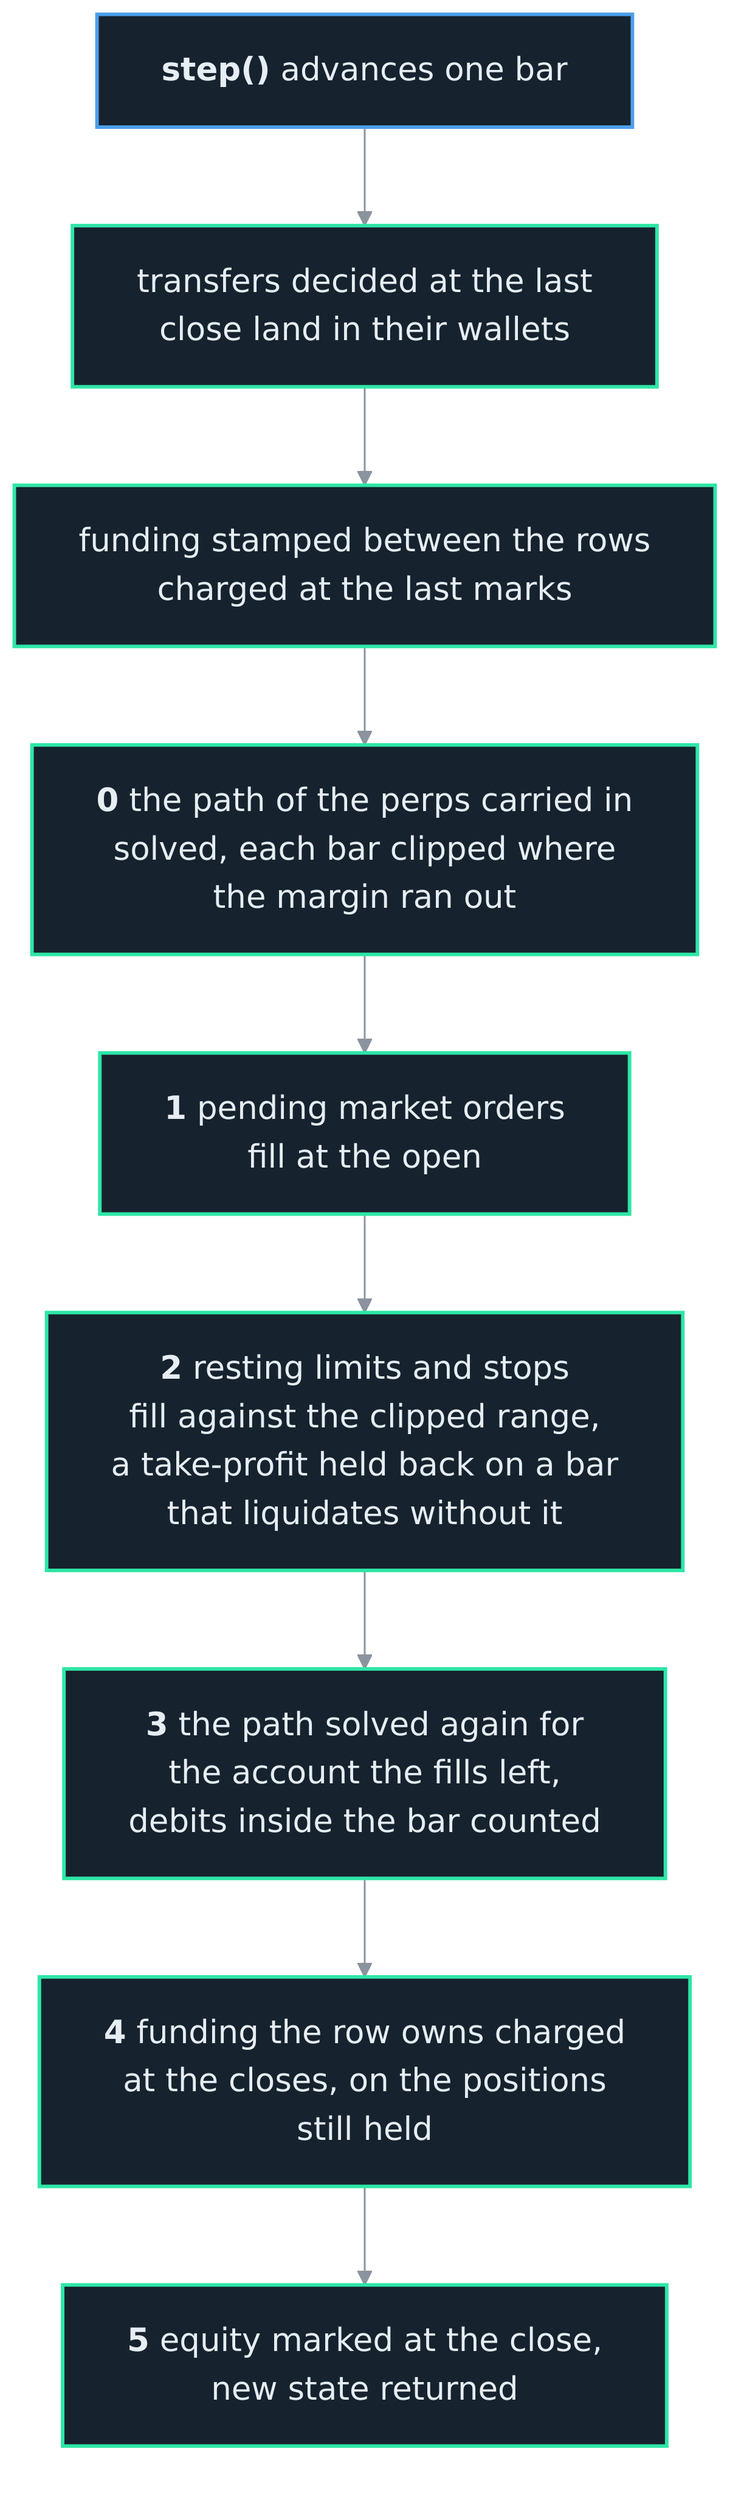
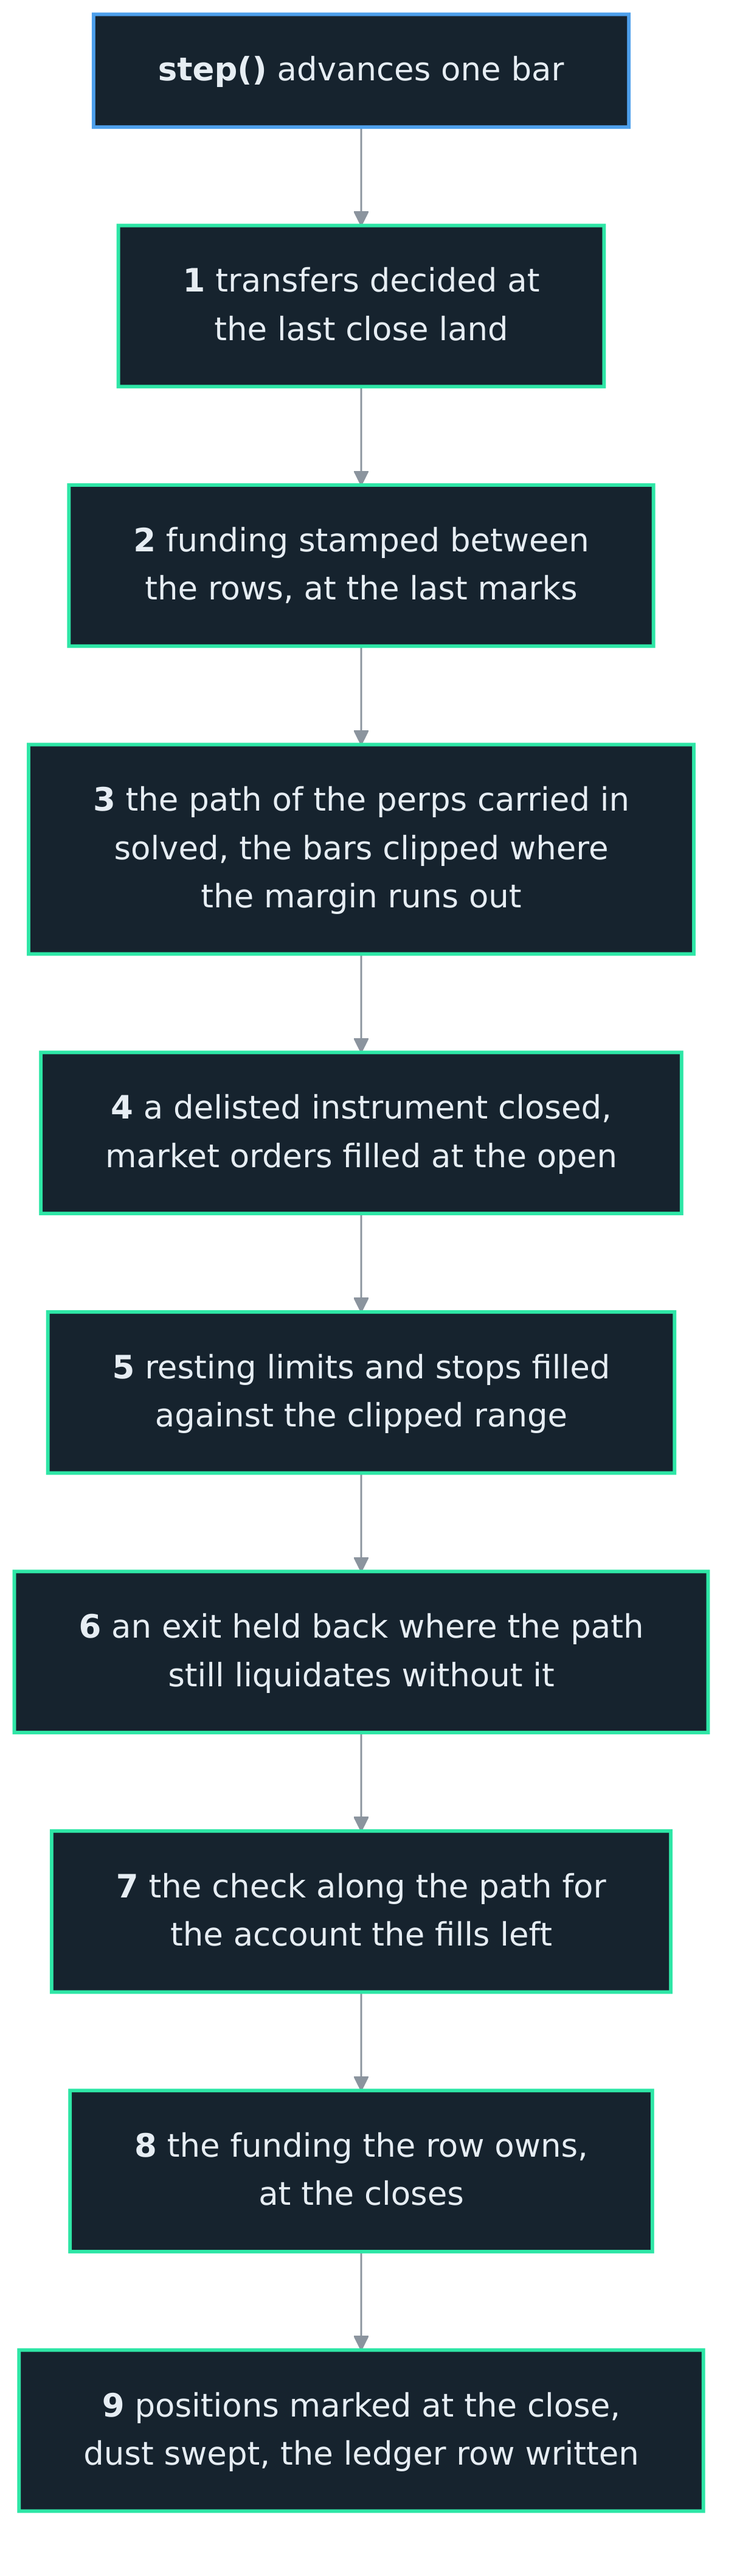
docs: rewrite the architecture page and redraw its two diagrams

diff --git a/.Documentation/Architecture.md b/.Documentation/Architecture.md
@@ -31,76 +31,138 @@
 
 ## Architecture
 
-The library is a cargo workspace: a pure-Rust core exposed to Python through one extension module. The dependency order is bottom-up, and logic flows up, never sideways. A lower layer never reaches for a higher one, and the Python-specific concerns (numpy, the GIL) live only in the one crate that links Python.
+A cargo workspace of three crates, exposed to Python through one extension module, `probatum._probatum`, under the Python package `probatum`. Each layer builds only on the one beneath it, and only the crate that links Python knows about numpy, Arrow's capsules or the GIL.
 
-<br>
-
-### Crates
-
-Three crates, each building only on the one beneath it:
-
-1. **`probatum-core`** (pure Rust; no Python, no candle series, no parallelism). The fidelity-neutral primitives: unit newtypes, the OHLCV bar, the order and fill types, the netted position, and the account (its spot and margin wallets, spot and perp equity, funding, liquidation, realized and unrealized PnL), the cost model, and the fixed-slot resting order book. This is the reuse seam a future tick or L2 engine would share, so nothing here holds the candle series, the windows over it, or any bar-level fill logic. It also holds the table of named columns and its export through the Arrow C data and stream interfaces, which touch no Python, so that Miri runs every way a reader releases what a table lends it ([0026](Decisions.md)).
-2. **`probatum-engine`** (pure Rust; no Python). The bar-level realization: the shared candle series with zero-copy windows, the next-bar fill model, the single `step()` state machine, the optional reporter and its stats, the Rayon batched runner, and the environment an agent trains on, each episode's observation, decoding, reward and flags worked for the whole batch at once. It builds only on `probatum-core`. An inverse contract runs there as a linear perpetual in the reciprocal of the price, its position the dollars its contracts are worth, so the closed forms carry over with no branch on the step's path, and `Units` turns its contracts and dollar prices into the engine's terms and its records back ([0016](Decisions.md)).
-3. **`probatum-py`** (the only Python-linked crate; PyO3, compiled to `probatum._probatum`). A thin shell over `probatum-engine`: it parses arguments, copies candles once from numpy, reads a frame's columns through the Arrow C stream or array interface so no frame library is imported to read one, builds a run's tables from the engine's records with no Python object a row and hands each one's Arrow C stream to Python in a capsule, hands state back as a typed record, plays a script of decisions through the engine in one call for the comparison with the reference simulator and an array run in one call for `backtest`, vends the zero-copy observation view, and releases the GIL around the batched step. It holds no simulation logic.
-
-The Python package `probatum` re-exports the compiled `Batch` and adds everything that is not simulation. `probatum.Data` holds the bars a run reads: its instruments on one clock, copied once into a buffer it owns and read through read-only views, from any frame or array or fetched through exchange-router, and saved as Arrow IPC files the package writes and reads itself ([0004](Decisions.md), [0005](Decisions.md)). `probatum.Result` holds what a run recorded, saved as a directory of the same open files, and `probatum.combine` adds Results from accounts at different venues into one book ([0026](Decisions.md)). Five of its parts are drivers, and they hold no simulation logic of their own: `probatum.backtest` hands an array to the engine in one call or steps a Strategy through it, `probatum.Engine` lets the caller step it, `probatum.env` steps a batch of environments an agent trains on, each step worked in Rust for the whole batch, `probatum.search` runs many trials, a random or grid search's arrays together in Rust on an engine each and the rest one at a time, in workers `spawn` starts where `n_jobs` is above 1, and `probatum.validate` runs a search on each training span a splitter gives and each out-of-sample path as one run of the engine across explicit seams ([0032](Decisions.md), [0034](Decisions.md)). Each takes the venue as an argument, so a setting has one place to be given ([0002](Decisions.md)). The rest look at a run rather than producing one: `probatum.stats` reads a finished one, `probatum.ta` is functions of arrays that never see the engine, and `probatum.chart` draws. These are the larger half of the package by line count and none of them simulates anything, which is the line that matters: a defect here is a wrong number about a correct run.
-
-`probatum-engine` also carries an in-core sweep that drives compiled Rust strategies over a parameter grid; it is not exposed to Python, since it can only run strategies compiled into the engine, and it survives as the Criterion benchmark of the GIL-free path ([0003](Decisions.md)).
+| Layer | Holds | Knows nothing about |
+| :--- | :--- | :--- |
+| `probatum-core` | units, orders, fills, the netted position, the account and its two wallets, the fee schedule, tier tables, the fixed-slot order book, and a table of named columns with its Arrow export | candle series, time, Python |
+| `probatum-engine` | the candle series and its clock, the step, order resolution, the fill model and its window, the liquidation path, funding, the ledger, the array run, the batch, the environment and labels | Python |
+| `probatum-py` | argument checks at the boundary, the buffers and views handed to numpy, a frame's columns read through the Arrow C interfaces, a run's tables built in Rust and lent as Arrow capsules, and the low-level binding | strategies, statistics |
+| `probatum` (Python) | everything a user calls: `Data`, `Venue`, `backtest`, `Strategy`, `Engine`, `Result`, `search`, `validate`, `labels`, `cv`, `stats`, `ta`, `env`, `chart` | how a fill is priced |
 
 <br>
 
 <div align="center">
   <img src="imgs/205312.png" alt="Crate layering" width="100%" />
-  <p style="margin: 0;"><i>The dependency order is bottom-up and logic flows up, never sideways: the <code>probatum-core</code> primitives, then <code>probatum-engine</code>, then the one Python-linked crate <code>probatum-py</code>, then the thin <code>python/probatum</code> wrappers.</i></p>
+  <p style="margin: 0;"><i>The dependency order is bottom-up: <code>probatum-core</code>, then <code>probatum-engine</code>, then the one Python-linked crate <code>probatum-py</code>, then the Python package a user calls.</i></p>
 </div>
 
 <br>
+<br>
 
-### The step lifecycle
+## Crates
 
-`reset()` positions at the first bar; `reset_at(offset)` starts at an arbitrary bar, which is how the RL env gives each env a different slice of history. `step()` advances exactly one bar, resolves it, then marks and returns the state.
+`probatum-core` holds no candle series and no bar-level rule: the position, the account, the costs and the book are the same however a fill is resolved. The account settles each instrument in its spot wallet or its margin wallet and nets a position per instrument. It marks equity as both wallets' cash, with every spot holding at its close and every perpetual's unrealized PnL beside it. Its Arrow table is lent through the C stream interface and released by whoever reads it, so it lives where Miri runs ([0026](Decisions.md)).
 
-The defining rule is **no same-bar lookahead**: an order decided while looking at bar `t` is resolved against bar `t+1`, never the bar the decision saw. Within a step the events follow the bar, numbered as the engine's own comments number them:
+`probatum-engine` is the bar-level engine. `engine/` holds the step and its parts, one module each, and the modules beside it hold the bars and price the fills:
 
-Transfers decided at the last close land first, before any fill, so cash moved into the margin wallet backs the orders decided with it ([0008](Decisions.md)). Funding stamped between the last row and this one, across a closure or a hole in the data, is charged next, at the last marks, on the positions carried through it, where the path below starts ([0020](Decisions.md)).
+| Module | What it does |
+| :--- | :--- |
+| `engine/orders.rs` | places, moves and cancels orders |
+| `engine/resolution.rs` | resolves a bar's orders |
+| `engine/margin.rs` | holds a fill to the cap, to a spot wallet's cash and holding, and to a reduce-only order's position |
+| `engine/path.rs`, `engine/liquidation.rs` | solve where the margin runs out, close the account there, and hold every reducing fill to the margin bound |
+| `engine/funding.rs`, `engine/transfers.rs`, `engine/brackets.rs`, `engine/target.rs` | funding, transfers, brackets and targets |
+| `engine/ledger.rs` | books every fill |
+| `candles.rs`, `clock.rs` | hold the bars of one instrument or a universe on one clock |
+| `execution.rs`, `window.rs` | price a fill |
+| `schedule.rs` | places funding events |
+| `sizes.rs` | holds an order to its lot and price rule |
+| `inverse.rs` | turns an inverse contract into a linear one in the reciprocal of the price ([0016](Decisions.md)) |
+| `reporter.rs`, `stats.rs` | the records a run keeps when it records, and the statistics derived from them |
+| `array.rs` | runs an array whole |
+| `script.rs`, `strategy.rs` | a script of decisions, and the loop it and an array run are played through |
+| `sweep.rs` | runs a compiled strategy over many parameter rows in parallel |
+| `batch.rs`, `env.rs` | step many accounts at once |
+| `labels.rs` | runs one trade a row |
+| `streams.rs` | names every random stream |
 
-0. The liquidation path is solved next, before anything resolves. Every perp held moves along one synchronous adverse path, from its last mark to its open and from the open to its adverse extreme, and the point where the margin runs out is a point on it; everything past that belongs to a market the account had already left, so every held perp's bar is clipped there. A clip on the gap closed the account before the bar opened, so that is closed first and nothing on a perp fills. Funding stamped inside the bar counts on the bar from the open, as `intrabar` decides ([0017](Decisions.md)).
-1. Pending market orders fill at the open.
-2. Resting limit and stop orders fill against the bar's range (a gap through a limit still fills at the limit, never better than the market traded since the last close; a triggered stop fills at the worse of open and trigger), every order on a bar drawing on one budget of its trailing volume.
-3. The path is solved again for the account the fills left, every leg opened during the bar joining it at its fill price, with any funding stamped inside the bar counted as `intrabar` decides. A forced close takes the account over where the margin ran out rather than at the bar's extremes, so a loss cannot exceed the margin behind it, and books what the wallet then holds as the liquidation charge; on a venue that books then backstops it sells every leg on the book from there instead and leaves the trader the rest. Either cancels every perp order the account left behind ([0018](Decisions.md), [0019](Decisions.md)).
-4. The funding the row owns is charged at the closes on the positions still held, after the check, because a stamp at the bar's end comes after every price the bar printed; an account the check closed out, having paid what it counted, pays nothing more, and one a debit takes to its trigger is closed at the closes ([0020](Decisions.md)).
-5. Equity is marked at the close, and the new state is returned.
+`probatum-py` is a thin shell over the engine and holds no simulation logic. It checks every argument as it enters and copies candles once from numpy. It reads a frame's columns through the Arrow C stream or array interface, so no frame library is imported to read one, builds a run's tables from the engine's records with no Python object a row, and releases the GIL around every batch step. Its low-level binding, `probatum._probatum.run`, takes candles, a venue record and a script of decisions, and returns the ledger, the fill log, the order log and the round trips. The reference simulator and the tests drive the engine through it ([Specification](Specification.md#the-low-level-binding)).
 
-Steps 1 and 2 read the clipped bars, which is what makes the clip a rule about the account's existence rather than a rule about exit orders.
+The Python package simulates nothing:
+
+| Module | What it holds |
+| :--- | :--- |
+| `_data.py` | `Data` |
+| `_venue.py`, `venues/` | the `Venue`, and the presets with their loader |
+| `_backtest.py` | reads a policy into one of its depths |
+| `_strategy.py`, `_engine.py` | drive the account |
+| `_search.py`, `_samplers.py`, `_space.py`, `_workers.py`, `_causality.py` | the search |
+| `cv.py`, `_validate.py`, `_labels.py` | validation |
+| `_costs.py` | capacity and the cost sweeps |
+| `_result.py`, `_ipc.py`, `_storage.py` | what a run and a search keep |
+| `_assumptions.py`, `_baselines.py`, `_explain.py` | what a run assumed, what it sets itself beside, and how a fill is told |
+| `_frames.py` | how a run's tables and records show |
+| `stats.py` | the statistics |
+| `ta.py` | the indicators |
+| `_env.py`, `rl.py`, `_agent.py`, `_transitions.py`, `sb3.py`, `torch.py` | the environments |
+| `_streams.py` | the named random streams |
+| `_errors.py` | the errors |
+| `chart/`, with `_static/` | the chart |
+
+`stats.py` and `chart/` read a finished run, so a defect there is a wrong number about a correct run.
+
+<br>
+<br>
+
+## The step
+
+`step()` advances exactly one bar, through the nine events the [Specification](Specification.md#the-order-of-events) numbers, drawn below.
 
 <br>
 
 <div align="center">
-  <img src="imgs/205314.png" alt="The within-bar event order" width="25%" />
-  <p style="margin: 0;"><i>The events resolved within one <code>step()</code>, in order: transfers, funding between the rows, the liquidation path, market fills, resting fills, the check on the path, the funding the row owns, then the close mark.</i></p>
+  <img src="imgs/205314.png" alt="The order of events within one step" width="25%" />
+  <p style="margin: 0;"><i>The events resolved within one <code>step()</code>, in the order the Specification gives them.</i></p>
 </div>
 
 <br>
 
-Equity is the authoritative account value, both wallets together: the cash in both, with every spot holding at its close and every perpetual's unrealized PnL at its close beside it. The `realized_pnl` field is cumulative realized trading PnL and is never added on top of equity.
+An order decided at bar `t`'s close fills on bar `t + 1` at the earliest, never on the bar the decision saw. The liquidation is a price on the bar's path rather than a check at its end, so the fills after it read bars clipped where the account left the market ([0017](Decisions.md), [0018](Decisions.md)).
 
 <br>
-
-### Zero-copy and batching
-
-The candle series lives once behind an `Arc<[Candle]>`, so thousands of envs share it with no duplication; each env is an independent cursor with its own account and orders. Two consequences follow:
-
-- **Observations are views.** A single env's observation is a read-only numpy view straight onto the shared candle buffer, no copy. `Candle` is `repr(C)`, so a window of candles reinterprets directly as a `(window, 5)` float array; the view is read-only because the buffer is shared, and it keeps the engine alive so the data outlives it. The batched observation gathers each env's window into a fresh `(num_envs, window, 5)` array, or `(num_envs, window, N, 5)` for a universe of N, since the windows differ once envs start at different offsets. See [0040](Decisions.md).
-- **The batched step is GIL-free.** `Batch.step_all` applies a batched action array and steps every env in parallel on the Rayon pool with the Python GIL released. Because the envs are independent and there is no cross-env reduction, batched stepping is bit-identical to stepping each env in a loop, an invariant asserted by a test, but under `intrabar="random"`, where each env draws from a stream named with its index as well.
-
 <br>
 
-### Reporting
+## Batching and the environment
 
-By default the engine records nothing but the running state, so its memory does not grow with the length of the run. With `report=True` it keeps an equity curve, sampled each step, the ledger, a row per bar from the opening balance, the round trips, a log of every fill and a log of every order's events ([0022](Decisions.md), [0023](Decisions.md)). That is the full level: at the account level it keeps the curve, the ledger without its columns for each instrument and the round trips, and a search's array trials keep the curve and the round trips alone. Performance statistics (return, CAGR, Sharpe, Sortino, Calmar, drawdown, volatility, and the trade metrics over the closed round trips) are derived from the curve and the round trips. Their intervals are `probatum.stats`', computed in Python from the same returns and round trips when first read, never by the engine or inside a search's trials ([0031](Decisions.md)). Reporting stays off for RL and is never part of the state the agent sees.
+The candle series lives once behind an `Arc`, so thousands of accounts read one buffer and each carries only its own account, orders and cursor. `Batch.step_all` steps every account in parallel with the GIL released. No account reads another, so the batch is bit-identical to stepping each alone, except under `intrabar="random"`, where each account also draws from a stream named with its index ([0021](Decisions.md)).
+
+`probatum.env` builds its environments on the same engines. A step decodes every environment's action, steps every account, works out its reward and its flags, and writes every observation into one float32 buffer, on threads sized to the work so a small batch does not pay for a large pool ([0040](Decisions.md)). `copy=False` hands out that buffer rather than a copy of it, and `probatum.torch.TensorEnv` hands it to a device, or writes the market block on the device itself.
+
+An engine, a batch or an environment clones. An engine or a batch also pickles into another process of the same version, through serde and postcard, and another version refuses the bytes. An environment holds the functions it was given and does not pickle.
 
 <br>
+<br>
 
-### Why the seam
+## What a run records
 
-The bar engine is the approximate, bar-level member of a planned family. A future sibling is a high-precision tick and L2 engine; the members differ by fidelity tier, not by brand. `probatum-core` is where they meet: the position, the account, the costs, and the order book are the same regardless of how a fill is resolved, so a tick engine reuses them and only replaces the resolution layer that `probatum-engine` provides. That is why L2 is refused at this tier rather than bolted on.
+The compiled engine keeps only its running state unless it records, so its memory does not grow with the run. `backtest` records at the full level unless `record=` asks otherwise, `probatum.Engine` always records at it, and an environment records nothing unless asked. The full level keeps the ledger, a row per bar from the opening balance, the holdings of each instrument, the round trips, a log of every fill and a log of every order's events. The account level keeps the ledger, the round trips and the costs alone, and a search's array trials keep only what their statistics read ([0022](Decisions.md), [0023](Decisions.md)).
+
+The engine derives the statistics a search ranks on from the equity and the round trips. Their intervals are `probatum.stats`', computed in Python when first read and never inside a trial ([0031](Decisions.md)). Every transcendental function goes through `libm`, sums run in a fixed order and every random draw comes from a named stream, so a run gives the same bits on every supported machine ([0021](Decisions.md)).
+
+<br>
+<br>
+
+## Speed
+
+Each depth spends its time in a different place, which decides what to reach for:
+
+| Path | What bounds it |
+| :--- | :--- |
+| an array through `backtest` | the engine's step alone, whole in Rust, and building the run's tables |
+| a `Strategy` through `backtest` | the call into `next` on every bar and the views it reads |
+| `probatum.Engine` | the call into `step` on every bar |
+| a random or grid search of an array | the engines stepped together in Rust, many trials to a call |
+| a search of a `Strategy` | one trial at a time in each worker process |
+| `probatum.env` | writing the observation, with the GIL released |
+
+`benchmarks/surfaces.py` measures each of them on the machine it runs on, in the `bench-surfaces` stage the [Validation Guide](Validation_Guide.md#the-stages) gives. CI holds the step loop's instruction count, which no machine moves, against the commit before.
+
+<br>
+<br>
+
+## Versioning Policy
+
+A backtest is a number somebody acts on, so the simulator's behaviour is part of the API ([0001](Decisions.md)). From 2.0.0 a public name, a keyword's meaning, a return type or a rule the [Specification](Specification.md) states changes only in a major release, with a record in [Decisions](Decisions.md) saying what was wrong. A minor release adds, and a keyword it adds has a default that keeps the old behaviour.
+
+Not promised: anything whose name starts with an underscore, the compiled binding `probatum._probatum` among them; the wording of an error or a warning; the chart's document; an indicator's last bit; and the Rust crates, which are workspace members rather than a published API.
